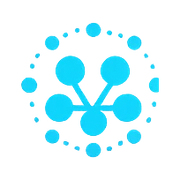
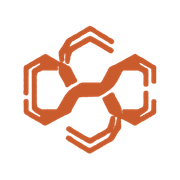
HiveForge : first commit

Changed region(s): [[0.1111, 0.1111, 0.8889, 0.8889]]

diff --git a/src/i18n/messages.ts b/src/i18n/messages.ts
@@ -13,8 +13,8 @@ export const messages: Record<Locale, Messages> = {
       },
     },
     brand: {
-      name: 'AIWEON',
-      statement: 'Intelligent automation for growing businesses, deployed with clarity, control, and measurable operational ROI.',
+      name: 'HiveForge',
+      statement: 'HiveForge builds governed AI workflow systems inside client infrastructure, with measurable ROI and operational control.',
     },
     header: {
       nav: {
@@ -120,7 +120,7 @@ export const messages: Record<Locale, Messages> = {
     footer: {
       navLabel: 'Navigate',
       contactLabel: 'Contact',
-      copyright: '© 2026 AIWEON. All rights reserved.',
+      copyright: '© 2026 HiveForge. All rights reserved.',
     },
   },
   es: {
@@ -133,8 +133,9 @@ export const messages: Record<Locale, Messages> = {
       },
     },
     brand: {
-      name: 'AIWEON',
-      statement: 'Automatización inteligente para empresas en crecimiento, con despliegues claros, controlados y ROI operativo medible.',
+      name: 'HiveForge',
+      statement:
+        'HiveForge diseña sistemas de workflows con IA y gobernanza dentro de la infraestructura del cliente, con ROI medible y control operativo.',
     },
     header: {
       nav: {
@@ -240,7 +241,7 @@ export const messages: Record<Locale, Messages> = {
     footer: {
       navLabel: 'Navegación',
       contactLabel: 'Contacto',
-      copyright: '© 2026 AIWEON. Todos los derechos reservados.',
+      copyright: '© 2026 HiveForge. Todos los derechos reservados.',
     },
   },
   pt: {
@@ -253,8 +254,9 @@ export const messages: Record<Locale, Messages> = {
       },
     },
     brand: {
-      name: 'AIWEON',
-      statement: 'Automação inteligente para empresas em crescimento, com implantação clara, controle e ROI operacional mensurável.',
+      name: 'HiveForge',
+      statement:
+        'A HiveForge projeta sistemas de workflow com IA e governança dentro da infraestrutura do cliente, com ROI mensurável e controle operacional.',
     },
     header: {
       nav: {
@@ -360,7 +362,7 @@ export const messages: Record<Locale, Messages> = {
     footer: {
       navLabel: 'Navegação',
       contactLabel: 'Contato',
-      copyright: '© 2026 AIWEON. Todos os direitos reservados.',
+      copyright: '© 2026 HiveForge. Todos os direitos reservados.',
     },
   },
 }

diff --git a/src/theme/colors.ts b/src/theme/colors.ts
@@ -4,29 +4,29 @@ export const theme = {
     display: '"Space Grotesk", sans-serif',
   },
   colors: {
-    backgroundTop: '#081425',
-    backgroundStart: '#0b1d35',
-    backgroundMid: '#10294a',
-    backgroundEnd: '#133760',
-    backgroundBottom: '#0d2744',
-    surface: 'rgba(13, 31, 56, 0.72)',
-    surfaceStrong: 'rgba(10, 26, 47, 0.9)',
-    surfaceSoft: 'rgba(17, 45, 80, 0.82)',
-    border: 'rgba(129, 186, 255, 0.18)',
-    text: '#ecf6ff',
-    muted: '#abc3db',
-    accent: '#3d8bfd',
-    accentSoft: '#75c7ff',
-    accentForeground: '#f5fbff',
-    ambientLeft: 'rgba(61, 139, 253, 0.28)',
-    ambientRight: 'rgba(117, 199, 255, 0.22)',
-    ambientBottom: 'rgba(32, 118, 219, 0.18)',
-    step: 'rgba(61, 139, 253, 0.18)',
+    backgroundTop: '#041019',
+    backgroundStart: '#061520',
+    backgroundMid: '#0a1d2b',
+    backgroundEnd: '#0c2231',
+    backgroundBottom: '#081520',
+    surface: 'rgba(8, 26, 38, 0.76)',
+    surfaceStrong: 'rgba(5, 21, 31, 0.92)',
+    surfaceSoft: 'rgba(13, 34, 48, 0.88)',
+    border: 'rgba(232, 115, 61, 0.18)',
+    text: '#f8f3ed',
+    muted: '#d6c9bd',
+    accent: '#e36d3a',
+    accentSoft: '#f1a16b',
+    accentForeground: '#081019',
+    ambientLeft: 'rgba(227, 109, 58, 0.24)',
+    ambientRight: 'rgba(241, 161, 107, 0.14)',
+    ambientBottom: 'rgba(23, 88, 107, 0.18)',
+    step: 'rgba(227, 109, 58, 0.15)',
   },
   shadows: {
-    panel: '0 22px 60px rgba(3, 10, 24, 0.35)',
-    accent: '0 18px 36px rgba(61, 139, 253, 0.28)',
-    glow: '0 0 18px rgba(117, 199, 255, 0.45)',
+    panel: '0 22px 60px rgba(1, 9, 14, 0.42)',
+    accent: '0 18px 36px rgba(227, 109, 58, 0.24)',
+    glow: '0 0 18px rgba(241, 161, 107, 0.22)',
   },
 } as const
 

diff --git a/index.html b/index.html
@@ -3,13 +3,15 @@
   <head>
     <meta charset="UTF-8" />
     <meta name="viewport" content="width=device-width, initial-scale=1.0" />
+    <meta name="theme-color" content="#00141f" />
     <meta
       name="description"
-      content="Custom AI workflow orchestration systems deployed inside your infrastructure for faster delivery, lower error rates, and measurable operational ROI."
+      content="HiveForge designs custom AI workflow orchestration systems deployed inside client infrastructure for faster delivery, stronger governance, and measurable operational ROI."
     />
-    <title>AIWEON</title>
+    <title>HiveForge | Building Intelligent Solutions</title>
     <link rel="icon" type="image/png" sizes="32x32" href="/favicon-32.png" />
     <link rel="icon" type="image/png" sizes="16x16" href="/favicon-16.png" />
+    <link rel="icon" type="image/png" sizes="48x48" href="/favicon-48.png" />
     <link rel="apple-touch-icon" sizes="180x180" href="/apple-touch-icon.png" />
     <link rel="preconnect" href="https://fonts.googleapis.com" />
     <link rel="preconnect" href="https://fonts.gstatic.com" crossorigin />

diff --git a/src/components/Header.tsx b/src/components/Header.tsx
@@ -1,5 +1,5 @@
 import { useState } from 'react'
-import logo from '../assets/aiweon-logo.webp'
+import logo from '../assets/hiveforge-logo-primary.png'
 import type { Locale, Messages, NavKey } from '../i18n/types'
 
 type HeaderProps = {
@@ -33,7 +33,7 @@ export function Header({ locale, messages, onLocaleChange }: HeaderProps) {
     <header className="sticky top-0 z-20 mx-auto w-full max-w-[1180px] py-3 backdrop-blur-md">
       <div className="flex items-center justify-between gap-4 rounded-[22px] border border-[var(--color-border)] bg-[var(--color-surface-strong)] px-4 py-3 shadow-panel sm:px-5 sm:py-4">
         <a className="inline-flex items-center" href="#top">
-          <img alt={messages.brand.name} className="h-[4.25rem] w-auto sm:h-[5rem] lg:h-[5.75rem]" src={logo} />
+          <img alt={messages.brand.name} className="h-12 w-auto sm:h-14 lg:h-16" src={logo} />
         </a>
 
         <div className="hidden items-center gap-6 lg:flex">

diff --git a/src/components/Footer.tsx b/src/components/Footer.tsx
@@ -1,4 +1,4 @@
-import logo from '../assets/aiweon-logo.webp'
+import logo from '../assets/hiveforge-logo-primary.png'
 import type { Messages, NavKey } from '../i18n/types'
 
 type FooterProps = {
@@ -17,7 +17,7 @@ export function Footer({ messages }: FooterProps) {
     <footer className="border-t border-[var(--color-border)] py-10">
       <div className="mx-auto grid w-full max-w-[1180px] gap-8 md:grid-cols-[1.2fr_0.8fr_0.8fr]">
         <div>
-          <img alt={messages.brand.name} className="h-24 w-auto sm:h-28 lg:h-32" src={logo} />
+          <img alt={messages.brand.name} className="h-20 w-auto sm:h-24 lg:h-28" src={logo} />
           <p className="mt-3 max-w-[44ch] leading-7 text-mist">{messages.brand.statement}</p>
         </div>
 

diff --git a/src/App.tsx b/src/App.tsx
@@ -12,7 +12,7 @@ function App() {
   const copy = messages[locale]
 
   return (
-    <div className="relative overflow-hidden bg-shell px-4 text-ink sm:px-6">
+    <div className="relative overflow-hidden bg-shell px-4 text-ink sm:px-6" id="top">
       <div className="pointer-events-none absolute left-[-7rem] top-28 h-80 w-80 rounded-full bg-[var(--color-ambient-left)] blur-[80px]" />
       <div className="pointer-events-none absolute right-[-6rem] top-[28rem] h-96 w-96 rounded-full bg-[var(--color-ambient-right)] blur-[80px]" />
 

diff --git a/README.md b/README.md
@@ -1,8 +1,8 @@
-# AI Workflow Orchestration Landing Page
+# HiveForge Landing Page
 
-This repository contains the React + Vite landing page for a company that sells custom AI workflow orchestration services.
+This repository contains the React + Vite landing page for HiveForge, a company that sells custom AI workflow orchestration services.
 
-The business model behind the site is documented in [ai_orchestration_business_doc.html](/mnt/c/Estudios/IA_weon/ai_orchestration_business_doc.html). The website turns that service positioning into a deployable marketing page for Vercel.
+The business model behind the site is documented in [ai_orchestration_business_doc.html](./ai_orchestration_business_doc.html). The website turns that service positioning into a deployable marketing page for Vercel.
 
 ## Stack
 
@@ -40,10 +40,10 @@ npm run preview
 
 ## Project Structure
 
-- [src/App.tsx](/mnt/c/Estudios/IA_weon/src/App.tsx): landing page content and section structure
-- [src/index.css](/mnt/c/Estudios/IA_weon/src/index.css): Tailwind entry and base styles
-- [index.html](/mnt/c/Estudios/IA_weon/index.html): app entry and metadata
-- [vercel.json](/mnt/c/Estudios/IA_weon/vercel.json): Vercel framework configuration
+- [src/App.tsx](./src/App.tsx): landing page content and section structure
+- [src/index.css](./src/index.css): Tailwind entry and base styles
+- [index.html](./index.html): app entry and metadata
+- [vercel.json](./vercel.json): Vercel framework configuration
 
 ## Deployment To Vercel
 
@@ -64,7 +64,6 @@ dist
 
 ## Content To Replace Before Launch
 
-- Update the company name in [src/App.tsx](/mnt/c/Estudios/IA_weon/src/App.tsx)
 - Replace `hello@example.com` with the real contact email
-- Add the final domain, favicon, and social preview metadata
+- Add the final domain and social preview metadata
 - If needed, connect the CTA to a form, Calendly, or CRM flow

diff --git a/AGENTS.md b/AGENTS.md
@@ -4,7 +4,7 @@
 
 This repository is the marketing landing page for a company that sells custom AI workflow orchestration services.
 
-The website is not the product itself. The website sells the service described in [ai_orchestration_business_doc.html](/mnt/c/Estudios/IA_weon/ai_orchestration_business_doc.html).
+The website is not the product itself. The website sells the service described in [ai_orchestration_business_doc.html](./ai_orchestration_business_doc.html).
 
 The current stack is:
 
